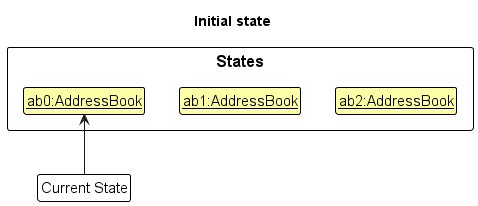
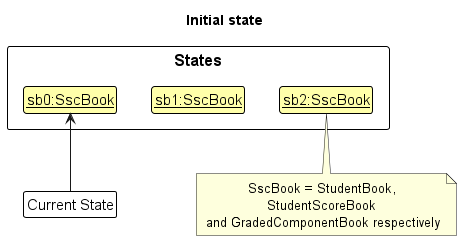
Update DG and Undo related diagrams

diff --git a/docs/DeveloperGuide.md b/docs/DeveloperGuide.md
@@ -6,7 +6,7 @@ pageNav: 3
 
 # ModuLight Developer Guide
 
-<!-- * Table of Contents -->
+--------------------------------------------------------------------------------------------------------------------
 * Table of Contents
     * **[Acknowledgements](#acknowledgements)**
     * **[Setting up, getting started](#setting-up-getting-started)**
@@ -111,12 +111,12 @@ The sequence diagram below illustrates the interactions within the `Logic` compo
 
 How the `Logic` component works:
 
-1. When `Logic` is called upon to execute a command, it is passed to an `AddressBookParser` object which in turn creates a parser that matches the command (e.g., `DeleteStudentCommandParser`) and uses it to parse the command.
-1. This results in a `Command` object (more precisely, an object of one of its subclasses e.g., `DeleteStudentCommand`) which is executed by the `LogicManager`.
-1. The command can communicate with the `Model` when it is executed (e.g. to delete a student).
-1. The result of the command execution is encapsulated as a `CommandResult` object which is returned back from `Logic`.
+1. When `Logic` is called upon to execute a command, it is passed to an `ModuLightParser` object which in turn creates a parser that matches the command (e.g., `DeleteStudentCommandParser`) and uses it to parse the command.
+2. This results in a `Command` object (more precisely, an object of one of its subclasses e.g., `DeleteStudentCommand`) which is executed by the `LogicManager`.
+3. The command can communicate with the `Model` when it is executed (e.g. to delete a student).
+4. The result of the command execution is encapsulated as a `CommandResult` object which is returned back from `Logic`.
 
-**Note:** There are three different model objects, namely the StudentBook, the StudentScore Book and the GradedComponentBook.
+**Note:** There are three different model objects, namely the StudentBook, the StudentScoreBook and the GradedComponentBook.
 The command might interact with one or more model objects. For example, when a student is deleted, the command will communicate 
 with the StudentBook to delete this student, as well as the StudentScoreBook, to delete all the student scores relevant to this student.
 
@@ -125,7 +125,7 @@ Here are the other classes in `Logic` (omitted from the class diagram above) tha
 <puml src="diagrams/ParserClasses.puml" width="600"/>
 
 How the parsing works:
-* When called upon to parse a user command, the `AddressBookParser` class creates an `XYZCommandParser` (`XYZ` is a placeholder for the specific command name e.g., `AddCommandParser`) which uses the other classes shown above to parse the user command and create a `XYZCommand` object (e.g., `AddCommand`) which the `AddressBookParser` returns back as a `Command` object.
+* When called upon to parse a user command, the `ModuLightParser` class creates an `XYZCommandParser` (`XYZ` is a placeholder for the specific command name e.g., `AddCommandParser`) which uses the other classes shown above to parse the user command and create a `XYZCommand` object (e.g., `AddCommand`) which the `ModuLightParser` returns back as a `Command` object.
 * All `XYZCommandParser` classes (e.g., `AddStudentCommandParser`, `DeleteStudentCommandParser`, ...) inherit from the `Parser` interface so that they can be treated similarly where possible e.g, during testing.
 
 ### Model component
@@ -136,14 +136,14 @@ How the parsing works:
 
 The `Model` component,
 
-* stores the address book data i.e., all `Person` objects (which are contained in a `UniquePersonList` object).
-* stores the currently 'selected' `Person` objects (e.g., results of a search query) as a separate _filtered_ list which is exposed to outsiders as an unmodifiable `ObservableList<Person>` that can be 'observed' e.g. the UI can be bound to this list so that the UI automatically updates when the data in the list change.
+* stores the ModuLight data i.e., all `Student` objects (which are contained in a `UniqueStudentList` object), all `StudentScore` objects (which are contained in a `UniqueStudentScoreList` object) and all `GradedComponent` objects (which are contained in a `UniqueGradedComponentList` object).
+* stores the currently 'selected' `Student`, `StudentScore` and `GradedComponent` objects (e.g., results of a search query) as separate _filtered_ lists respectively which are exposed to outsiders as unmodifiable `ObservableList<Student>`, `ObservableList<StudentScore>` and `ObservableList<GradedComponent>` that can be 'observed' e.g. the UI can be bound to this list so that the UI automatically updates when the data in the list change.
 * stores a `UserPref` object that represents the user’s preferences. This is exposed to the outside as a `ReadOnlyUserPref` objects.
 * does not depend on any of the other three components (as the `Model` represents data entities of the domain, they should make sense on their own without depending on other components)
 
 <box type="info" seamless>
 
-**Note:** An alternative (arguably, a more OOP) model is given below. It has a `Tag` list in the `AddressBook`, which `Person` references. This allows `AddressBook` to only require one `Tag` object per unique tag, instead of each `Person` needing their own `Tag` objects.<br>
+**Note:** For student and student score, an alternative (arguably, a more OOP) model is given below. It has a `Tag` list in the `Student`, which `Student` references. This allows `AddressBook` to only require one `Tag` object per unique tag, instead of each `Person` needing their own `Tag` objects.<br>
 
 <puml src="diagrams/BetterModelClassDiagram.puml" width="450" />
 
@@ -165,7 +165,7 @@ The `Storage` component,
 
 ### Common classes
 
-Classes used by multiple components are in the `seedu.addressbook.commons` package.
+Classes used by multiple components are in the `seedu.modulight.commons` package.
 
 --------------------------------------------------------------------------------------------------------------------
 
@@ -173,100 +173,8 @@ Classes used by multiple components are in the `seedu.addressbook.commons` packa
 
 This section describes some noteworthy details on how certain features are implemented.
 
-### \[Proposed\] Undo/redo feature
 
-#### Proposed Implementation
-
-The proposed undo/redo mechanism is facilitated by `VersionedAddressBook`. It extends `AddressBook` with an undo/redo history, stored internally as an `addressBookStateList` and `currentStatePointer`. Additionally, it implements the following operations:
-
-* `VersionedAddressBook#commit()` — Saves the current address book state in its history.
-* `VersionedAddressBook#undo()` — Restores the previous address book state from its history.
-* `VersionedAddressBook#redo()` — Restores a previously undone address book state from its history.
-
-These operations are exposed in the `Model` interface as `Model#commitAddressBook()`, `Model#undoAddressBook()` and `Model#redoAddressBook()` respectively.
-
-Given below is an example usage scenario and how the undo/redo mechanism behaves at each step.
-
-Step 1. The user launches the application for the first time. The `VersionedAddressBook` will be initialized with the initial address book state, and the `currentStatePointer` pointing to that single address book state.
-
-<puml src="diagrams/UndoRedoState0.puml" alt="UndoRedoState0" />
-
-Step 2. The user executes `delete 5` command to delete the 5th person in the address book. The `delete` command calls `Model#commitAddressBook()`, causing the modified state of the address book after the `delete 5` command executes to be saved in the `addressBookStateList`, and the `currentStatePointer` is shifted to the newly inserted address book state.
-
-<puml src="diagrams/UndoRedoState1.puml" alt="UndoRedoState1" />
-
-Step 3. The user executes `add n/David …` to add a new person. The `add` command also calls `Model#commitAddressBook()`, causing another modified address book state to be saved into the `addressBookStateList`.
-
-<puml src="diagrams/UndoRedoState2.puml" alt="UndoRedoState2" />
-
-<box type="info" seamless>
-
-**Note:** If a command fails its execution, it will not call `Model#commitAddressBook()`, so the address book state will not be saved into the `addressBookStateList`.
-
-</box>
-
-Step 4. The user now decides that adding the person was a mistake, and decides to undo that action by executing the `undo` command. The `undo` command will call `Model#undoAddressBook()`, which will shift the `currentStatePointer` once to the left, pointing it to the previous address book state, and restores the address book to that state.
-
-<puml src="diagrams/UndoRedoState3.puml" alt="UndoRedoState3" />
-
-
-<box type="info" seamless>
-
-**Note:** If the `currentStatePointer` is at index 0, pointing to the initial AddressBook state, then there are no previous AddressBook states to restore. The `undo` command uses `Model#canUndoAddressBook()` to check if this is the case. If so, it will return an error to the user rather
-than attempting to perform the undo.
-
-</box>
-
-The following sequence diagram shows how the undo operation works:
-
-<puml src="diagrams/UndoSequenceDiagram.puml" alt="UndoSequenceDiagram" />
-
-<box type="info" seamless>
-
-**Note:** The lifeline for `UndoCommand` should end at the destroy marker (X) but due to a limitation of PlantUML, the lifeline reaches the end of diagram.
-
-</box>
-
-The `redo` command does the opposite — it calls `Model#redoAddressBook()`, which shifts the `currentStatePointer` once to the right, pointing to the previously undone state, and restores the address book to that state.
-
-<box type="info" seamless>
-
-**Note:** If the `currentStatePointer` is at index `addressBookStateList.size() - 1`, pointing to the latest address book state, then there are no undone AddressBook states to restore. The `redo` command uses `Model#canRedoAddressBook()` to check if this is the case. If so, it will return an error to the user rather than attempting to perform the redo.
-
-</box>
-
-Step 5. The user then decides to execute the command `list`. Commands that do not modify the address book, such as `list`, will usually not call `Model#commitAddressBook()`, `Model#undoAddressBook()` or `Model#redoAddressBook()`. Thus, the `addressBookStateList` remains unchanged.
-
-<puml src="diagrams/UndoRedoState4.puml" alt="UndoRedoState4" />
-
-Step 6. The user executes `clear`, which calls `Model#commitAddressBook()`. Since the `currentStatePointer` is not pointing at the end of the `addressBookStateList`, all address book states after the `currentStatePointer` will be purged. Reason: It no longer makes sense to redo the `add n/David …` command. This is the behavior that most modern desktop applications follow.
-
-<puml src="diagrams/UndoRedoState5.puml" alt="UndoRedoState5" />
-
-The following activity diagram summarizes what happens when a user executes a new command:
-
-<puml src="diagrams/CommitActivityDiagram.puml" width="250" />
-
-#### Design considerations:
-
-**Aspect: How undo & redo executes:**
-
-* **Alternative 1 (current choice):** Saves the entire address book.
-  * Pros: Easy to implement.
-  * Cons: May have performance issues in terms of memory usage.
-
-* **Alternative 2:** Individual command knows how to undo/redo by
-  itself.
-  * Pros: Will use less memory (e.g. for `delete`, just save the person being deleted).
-  * Cons: We must ensure that the implementation of each individual command are correct.
-
-_{more aspects and alternatives to be added}_
-
-### \[Proposed\] Data archiving
-
-_{Explain here how the data archiving feature will be implemented}_
-
-### \[Proposed\] Auto-grading 
+### Auto-grading
 
 #### Proposed Implementation
 
@@ -274,17 +182,17 @@ _{Explain here how the data archiving feature will be implemented}_
 
 Given below is an example usage scenario and how the Autograding mechanism for percentile calculation behaves at each step.
 
-Step 1. The user launch the application for the first time. 
+Step 1. The user launch the application for the first time.
 
 Step 2. The user creates the desired graded components and adds all the students in the cohort.
 
-Step 3. The user then executes `autograde ag/percentile pg/5 15 30 50 60 70 80 90 95` to execute the auto-grading system, the 'percentile' 
+Step 3. The user then executes `autograde ag/percentile pg/5 15 30 50 60 70 80 90 95` to execute the auto-grading system, the 'percentile'
 keyword indicates that ModuLight grades based on the students' percentile compared to another. The value after `pg/` indicates
-the top percentile for each corresponding grade threshold, i.e. `pg/[A+] [A] [A-] [B+] ...`. 
+the top percentile for each corresponding grade threshold, i.e. `pg/[A+] [A] [A-] [B+] ...`.
 
 <box type="info" seamless>
 
-**Note:** The value for `ag/` can be type `score` which determines the grade based on the passing score of the student's total score. 
+**Note:** The value for `ag/` can be type `score` which determines the grade based on the passing score of the student's total score.
 
 </box>
 
@@ -300,12 +208,101 @@ total score. ModuLight will then execute `editStudentCommand` on every student t
 **Aspect: How the assignments of grade works:**
 
 * **Alternative 1 (Current choice):** Use tags to assign the grade
-  * Pros: Easy to implement.
-  * Cons: Not ideal if we want to extend the code for more features.
+    * Pros: Easy to implement.
+    * Cons: Not ideal if we want to extend the code for more features.
 * **Alternative 2:** Create new Grade object for each student.
-  * Pros: Cleaner and extendable code implementation.
-  * Cons: require change of implementation on multiple classes.
+    * Pros: Cleaner and extendable code implementation.
+    * Cons: require change of implementation on multiple classes.
 
+
+
+### \[Proposed\] Undo/redo feature
+
+#### Proposed Implementation
+
+Since `Student`, `StudentGrade` and `GradedComponent` have similar dependencies and behavior, we will use `Ssc` to refer these three classes and their related classes in the following discussion. In other words, `VersionedSscBook` means `VersionedStudentBook`, `VersionedStudentScoreBook` and `VersionedGradedComponentBook`.
+The proposed undo/redo mechanism is facilitated by `VersionedSscBook`. It extends `SscBook` with an undo/redo history, stored internally as an `sscStateList` and `currentStatePointer`. Additionally, it implements the following operations:
+
+* `VersionedSscBook#commit()` — Saves the current ssc book state in its history.
+* `VersionedSscBook#undo()` — Restores the previous ssc book state from its history.
+* `VersionedSscBook#redo()` — Restores a previously undone ssc book state from its history.
+
+These operations are exposed in the `Model` interface as `Model#commitSscBook()`, `Model#undoSscBook()` and `Model#redoSscBook()` respectively.
+
+Given below is an example usage scenario and how the undo/redo mechanism behaves at each step.
+
+Step 1. The user launches the application for the first time. The `VersionedSscBook` will be initialized with the initial Ssc book state, and the `currentStatePointer` pointing to that single Ssc book state.
+
+<puml src="diagrams/UndoRedoState0.puml" alt="UndoRedoState0" />
+
+Step 2. The user executes `deleteStu 5` command to delete the 5th student in the Ssc book. The `deleteStu` command calls `Model#commitSscBook()`, causing the modified state of the address book after the `delete 5` command executes to be saved in the `SscBookStateList`, and the `currentStatePointer` is shifted to the newly inserted Ssc book state.
+
+<puml src="diagrams/UndoRedoState1.puml" alt="UndoRedoState1" />
+
+Step 3. The user executes `addStu n/David …` to add a new person. The `addStu` command also calls `Model#commitSscBook()`, causing another modified address book state to be saved into the `sscBookStateList`.
+
+<puml src="diagrams/UndoRedoState2.puml" alt="UndoRedoState2" />
+
+<box type="info" seamless>
+
+**Note:** If a command fails its execution, it will not call `Model#commitSscBook()`, so the ssc book state will not be saved into the `sscBookStateList`.
+
+</box>
+
+Step 4. The user now decides that adding the student was a mistake, and decides to undo that action by executing the `undo` command. The `undo` command will call `Model#undoSscBook()`, which will shift the `currentStatePointer` once to the left, pointing it to the previous ssc book state, and restores the ssc book to that state.
+
+<puml src="diagrams/UndoRedoState3.puml" alt="UndoRedoState3" />
+
+
+<box type="info" seamless>
+
+**Note:** If the `currentStatePointer` is at index 0, pointing to the initial SscBook state, then there are no previous SscBook states to restore. The `undo` command uses `Model#canUndoSscBook()` to check if this is the case. If so, it will return an error to the user rather
+than attempting to perform the undo.
+
+</box>
+
+The following sequence diagram shows how the undo operation works:
+
+<puml src="diagrams/UndoSequenceDiagram.puml" alt="UndoSequenceDiagram" />
+
+<box type="info" seamless>
+
+**Note:** The lifeline for `UndoCommand` should end at the destroy marker (X) but due to a limitation of PlantUML, the lifeline reaches the end of diagram.
+
+</box>
+
+The `redo` command does the opposite — it calls `Model#redoSscBook()`, which shifts the `currentStatePointer` once to the right, pointing to the previously undone state, and restores the ssc book to that state.
+
+<box type="info" seamless>
+
+**Note:** If the `currentStatePointer` is at index `sscBookStateList.size() - 1`, pointing to the latest address book state, then there are no undone SscBook states to restore. The `redo` command uses `Model#canRedoSscBook()` to check if this is the case. If so, it will return an error to the user rather than attempting to perform the redo.
+
+</box>
+
+Step 5. The user then decides to execute the command `listAll`. Commands that do not modify the address book, such as `list`, will usually not call `Model#commitSscBook()`, `Model#undoSscBook()` or `Model#redoSscBook()`. Thus, the `sscBookStateList` remains unchanged.
+
+<puml src="diagrams/UndoRedoState4.puml" alt="UndoRedoState4" />
+
+Step 6. The user executes `clearAll`, which calls `Model#commitSscBook()`. Since the `currentStatePointer` is not pointing at the end of the `sscBookStateList`, all address book states after the `currentStatePointer` will be purged. Reason: It no longer makes sense to redo the `add n/David …` command. This is the behavior that most modern desktop applications follow.
+
+<puml src="diagrams/UndoRedoState5.puml" alt="UndoRedoState5" />
+
+The following activity diagram summarizes what happens when a user executes a new command:
+
+<puml src="diagrams/CommitActivityDiagram.puml" width="250" />
+
+#### Design considerations:
+
+**Aspect: How undo & redo executes:**
+
+* **Alternative 1 (current choice):** Saves the entire ssc book.
+  * Pros: Easy to implement.
+  * Cons: May have performance issues in terms of memory usage.
+
+* **Alternative 2:** Individual command knows how to undo/redo by
+  itself.
+  * Pros: Will use less memory (e.g. for `deleteStu`, just save the student being deleted).
+  * Cons: We must ensure that the implementation of each individual command are correct.
 
 --------------------------------------------------------------------------------------------------------------------
 
@@ -611,3 +608,8 @@ testers are expected to do more *exploratory* testing.
       Expected: The edited field for the particular student, student score or graded component will be updated.
 
 1. _{ more test cases … }_
+
+## **Appendix: Planned Enhancements**
+
+1. Support special characters in student name parameter as some people's legal name do include some special characters(e.g. "s/o").
+2. Allow the Student List Panel, Student Score List Panel and Graded Component List Panel to automatically scroll down when adding new Student, Student Grade or Graded Component.

diff --git a/docs/UserGuide.md b/docs/UserGuide.md
@@ -225,6 +225,8 @@ Edits an existing graded component’s details in the database, based on the 1-b
 
 Format: `editComp INDEX [c/COMP_NAME] [w/WEIGHTAGE] [mm/MAX_MARKS]`
 
+* if no parameters except index are passed in, the graded component will remain unchanged.
+
 Examples: `editComp 4 c/Midterm Exam mm/55` edits the fourth graded component in the Graded Components list to have a name of “Midterm Exam”, and a maximum mark of 55.
 
 ### Delete a graded component: `deleteComp`
@@ -247,6 +249,7 @@ Note: a StudentScore will be automatically added when a graded component is crea
 Format: `editScore INDEX [m/SCORE] [x/comment]`
 
 * if the mark is being edited, the new mark should be more than 0 and not exceed the associated component's maximum marks.
+* if no parameters except index are passed in, the score will remain unchanged.
 
 Examples: `editScore 7 m/57` assigns a mark of 57 for the seventh student score in the Student Scores list.
 
